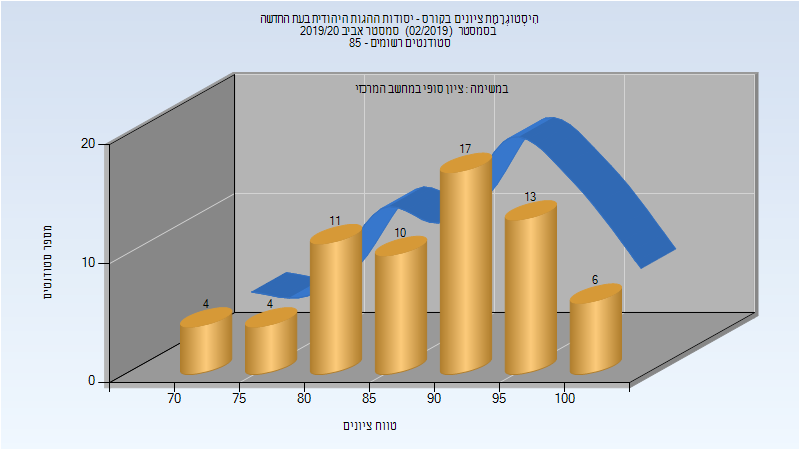
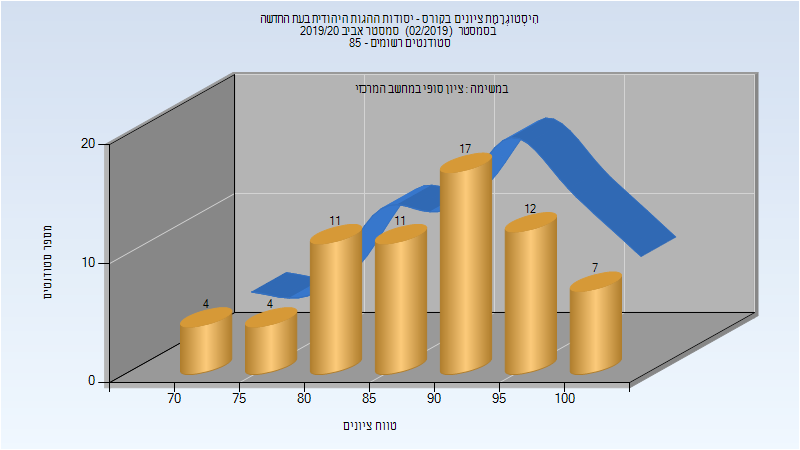
Deploy michael-maltsev/technion-histograms to github.com/michael-maltsev/technion-histograms.git:gh-pages

diff --git a/324294/index.html b/324294/index.html
@@ -336,12 +336,12 @@
 </thead>
 <tbody>
 <tr>
-<td>65</td>
-<td>65/0</td>
+<td>66</td>
+<td>66/0</td>
 <td>100</td>
 <td>70</td>
 <td>100</td>
-<td>88.923</td>
+<td>88.97</td>
 <td>90</td>
 </tr>
 </tbody>

diff --git a/324294/README.md b/324294/README.md
@@ -104,5 +104,5 @@
 
 | סטודנטים | עברו/נכשלו | אחוז עוברים | ציון מינימלי | ציון מקסימלי | ממוצע | חציון |
 | ---- | ---- | ---- | ---- | ---- | ---- | ---- |
-| 65 | 65/0 | 100 | 70 | 100 | 88.923 | 90 |
+| 66 | 66/0 | 100 | 70 | 100 | 88.97 | 90 |
 
